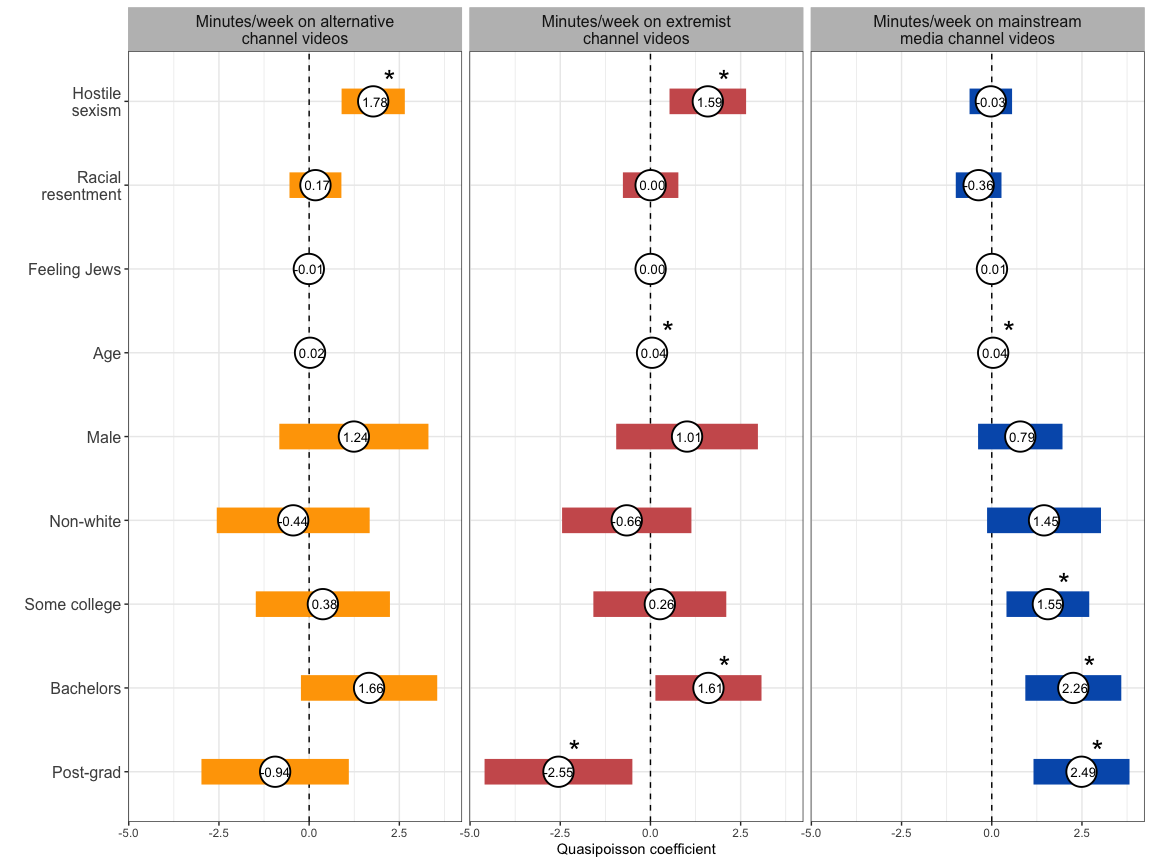
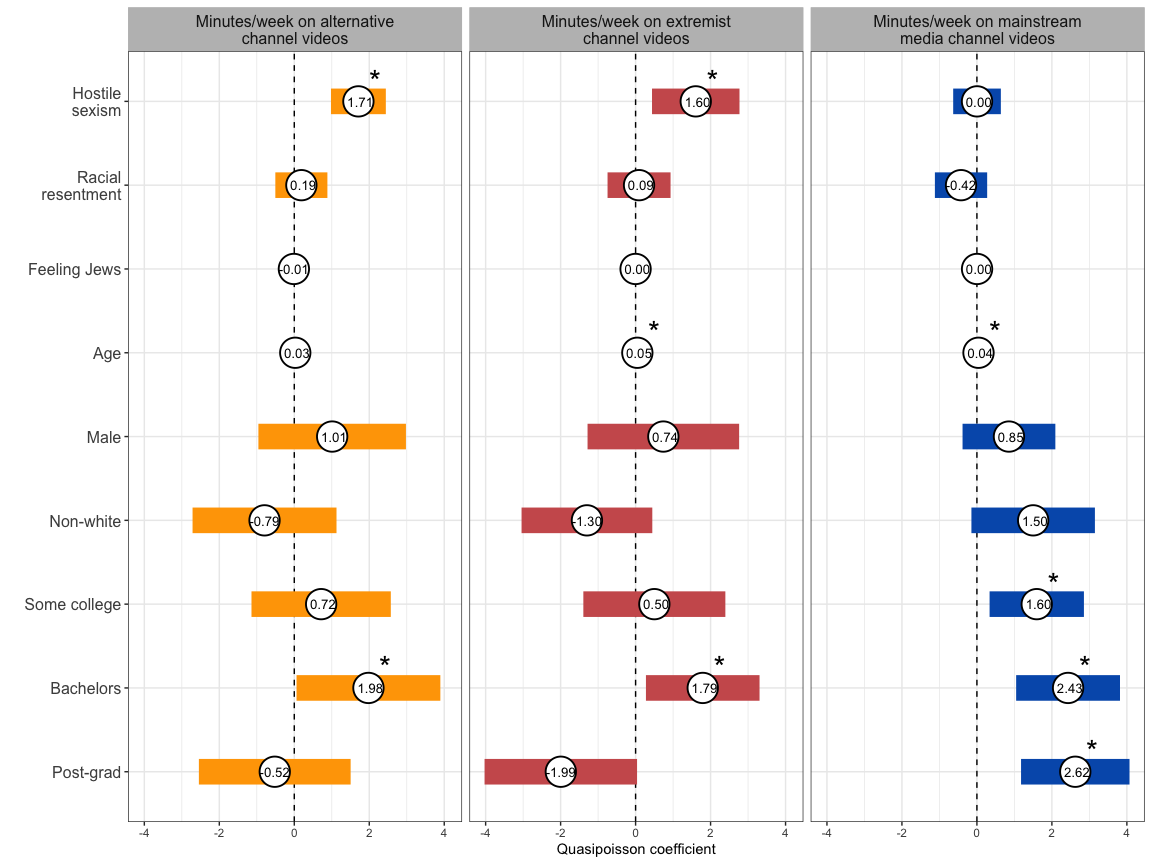
fix exposure models and add figure 6

diff --git a/main-text-figures.md b/main-text-figures.md
@@ -10,8 +10,14 @@ summarize_subscribe_table <-
   read_csv("data/summarize_subscribe_table.csv")
 
 # referrers data
-aggregated_referrers_by_channel <- 
-  read_csv("data/aggregated_referrers_by_channel.csv")
+youtube_referrers_data <- 
+  read_csv("data/youtube_referrers.csv")
+
+# list of referrers
+referrers_list <- read_rds('data/referrers_list.rds')
+external_referrers <- referrers_list$external_referrers
+internal_referrers_other <- referrers_list$internal_referrers_other
+internal_referrers <- referrers_list$internal_referrers
 
 # recommendations data
 recs_data <- 
@@ -521,10 +527,10 @@ topuser_plot(
 ## Figure 4. Predictors of watch time
 
 ``` r
-# DV is time elapsed per week on channel video
-f_time_alternative_all <- formula(minutes_activity_yt_video_time_elapsed_capped_total_alternative_all_week ~  rr_cts + jw_cts + fem_cts + age + gender + educ2 + race)
-f_time_extremist_all <- formula(minutes_activity_yt_video_time_elapsed_capped_total_extremist_all_week ~  rr_cts + jw_cts + fem_cts + age + gender + educ2 + race )
-f_time_mainstream_all <- formula(minutes_activity_yt_video_time_elapsed_capped_total_mainstream_all_week ~  rr_cts + jw_cts + fem_cts + age + gender + educ2 + race)
+# DV is time elapsed on channel video
+f_time_alternative_all <- formula(minutes_activity_yt_video_time_elapsed_capped_total_alternative_all ~  rr_cts + jw_cts + fem_cts + age + gender + educ2 + race)
+f_time_extremist_all <- formula(minutes_activity_yt_video_time_elapsed_capped_total_extremist_all ~  rr_cts + jw_cts + fem_cts + age + gender + educ2 + race )
+f_time_mainstream_all <- formula(minutes_activity_yt_video_time_elapsed_capped_total_mainstream_all ~  rr_cts + jw_cts + fem_cts + age + gender + educ2 + race)
 
 time_fs <- list(
   f_time_alternative_all,
@@ -572,11 +578,9 @@ robust_weighted_quasipoisson <- function(data = at_data,
   }
   return(results)
 }
-QP_time_fit <- list()
-for (i in 1:length(time_fs)) {
-  QP_time_fit[[i]] <-
-    robust_weighted_quasipoisson(formula = time_fs[[i]])
-}
+
+QP_time_fit <- map(1:length(time_fs), 
+                   ~robust_weighted_quasipoisson(formula = time_fs[[.x]]))
 
 names(QP_time_fit) <-
   c("time_alternative_full",
@@ -651,6 +655,7 @@ time_models %>%
 ## Figure 5. Hostile sexism as predictor of alternative and extremist channel viewing
 
 ``` r
+# predict() needs to take original model object without robust standard errors first, then separately estimate robust covariance matrix 
 QP_time_fit_noSE <- map(time_fs,
                         ~ robust_weighted_quasipoisson(formula = .x,
                                                        robust_output = FALSE))
@@ -757,9 +762,9 @@ predicted_data <-
 # set y-axis limits
 predicted_data <- data.table(predicted_data)
 predicted_data[channel_type == "alternative", y_min := 0]
-predicted_data[channel_type == "alternative", y_max := 200]
+predicted_data[channel_type == "alternative", y_max := 2000]
 predicted_data[channel_type == "extremist", y_min := 0]
-predicted_data[channel_type == "extremist", y_max := 50]
+predicted_data[channel_type == "extremist", y_max := 500]
 
 
 ggplot(predicted_data, aes(x = fem_cts, y = fit_response)) +
@@ -793,8 +798,8 @@ ggplot(predicted_data, aes(x = fem_cts, y = fit_response)) +
     values = c("#FFA500", "#CD5C5C"),
     name = "",
     labels = c(
-      "Alternative channel videos \ny-axis = [0, 200]",
-      "Extremist channel videos \ny-axis = [0, 50]"
+      "Alternative channel videos \ny-axis = [0, 2000]",
+      "Extremist channel videos \ny-axis = [0, 500]"
     )
   ) +
   labs(x = "Hostile sexism scale",
@@ -813,6 +818,139 @@ ggplot(predicted_data, aes(x = fem_cts, y = fit_response)) +
 ## Figure 6: Pages viewed immediately prior to YouTube videos by channel type
 
 ``` r
+on_platform_referrers_by_channel <- youtube_referrers_data %>%
+  group_by(channel_type) %>%
+  count(youtube_video_referrers_by_channel_type) %>%
+  filter(!is.na(youtube_video_referrers_by_channel_type)) %>%
+  mutate(
+    total = sum(n),
+    proportion = (n / sum(n)),
+    std_err = sqrt((proportion * (1 - proportion)) / total),
+    ci_lwr = 100 * (proportion - std_err * 1.96),
+    ci_upr = 100 * (proportion + std_err * 1.96),
+    percentage = 100 * proportion
+  ) %>%
+  ungroup() %>%
+  mutate(
+    channel_type_referrer = interaction(channel_type, youtube_video_referrers_by_channel_type),
+    youtube_video_referrers_by_channel_type = factor(
+      youtube_video_referrers_by_channel_type,
+      levels = c(
+        "alternative",
+        "extremist",
+        "mainstream",
+        'other',
+        'Non-video on-platform',
+        'Off-platform'
+      )
+    )
+  ) %>%
+  arrange(channel_type, youtube_video_referrers_by_channel_type) %>%
+  mutate(order_var = 1:nrow(.))
+
+
+on_platform_referrers_by_channel_plot <-
+  on_platform_referrers_by_channel %>%
+  mutate(
+    channel_type = case_when(
+      channel_type == "alternative" ~ "Alternative channel videos",
+      channel_type == "extremist" ~ "Extremist channel videos",
+      channel_type == "mainstream" ~ "Mainstream media videos",
+      channel_type == "other" ~ "Other channel videos"
+    )
+  ) %>%
+  ggplot(
+    data = .,
+    aes(
+      x = str_wrap_factor(reorder(channel_type, order_var), width = 17),
+      y = percentage,
+      fill = youtube_video_referrers_by_channel_type,
+      group = channel_type
+    )
+  ) +
+  geom_col(position = position_dodge2(padding = 0,
+                                      width = .95)) +
+  geom_linerange(aes(ymin = ci_lwr,
+                     ymax = ci_upr),
+                 size = .7,
+                 position = position_dodge2(width = .90)) +
+  labs(x = "", y = "Estimated percentage from preceding link") +
+  scale_fill_manual(
+    values = c(
+      'alternative' = "#FFA500",
+      'extremist'  = "#CD5C5C",
+      'mainstream'  =  "#015CB9",
+      'other' = "#E3E6E6",
+      'Non-video on-platform'  =  "#7f7f7f",
+      'Off-platform'  =  "#2D2E32"
+    ),
+    breaks  = c(
+      'alternative',
+      'other',
+      'extremist',
+      'Non-video on-platform',
+      'mainstream',
+      'Off-platform'
+    ),
+    labels = c(
+      'alternative' = "Alternative\nchannels",
+      'extremist' = "Extremist\nchannels",
+      'mainstream'  =  "Mainstream\nmedia",
+      'other' = "Other\nchannels",
+      'Non-video on-platform'  = "Non-video \non-platform",
+      'Off-platform'  = "Off-platform"
+    ),
+    name = "Type of preceding link:"
+  ) +
+  scale_y_continuous(
+    limits = c(0, 60),
+    labels = paste0(seq(0, 60, 20), "%"),
+    breaks = seq(0, 60, 20)
+  ) +
+  ggthemes::theme_gdocs() +
+  theme(
+    legend.position = 'bottom',
+    legend.direction = 'horizontal',
+    panel.grid.major.y = element_line(color = "grey95"),
+    panel.grid.major.x = element_blank(),
+    axis.text.x = element_text(size = 12),
+    plot.background = element_rect(color = "white")
+  )
+
+on_platform_referrers_by_channel_plot
+```
+
+<img src="main-text-figures_files/figure-gfm/unnamed-chunk-4-1.png" style="display: block; margin: auto;" />
+
+## Figure 7: Relative frequency of referrals to YouTube videos by channel and referrer type
+
+``` r
+aggregated_referrers_by_channel <- youtube_referrers_data %>%
+  group_by(channel_type) %>%
+  count(all_referrers_grouped) %>%
+  filter(!is.na(all_referrers_grouped)) %>%
+  mutate(
+    total = sum(n),
+    proportion = (n / sum(n)),
+    std_err = sqrt((proportion * (1 - proportion)) / total),
+    ci_lwr = 100 * (proportion - std_err * 1.96),
+    ci_upr = 100 * (proportion + std_err * 1.96),
+    percentage = 100 * proportion,
+    on_off_platform = case_when(
+      all_referrers_grouped %in% c(str_replace(names(external_referrers), "_", " "), "other off-platform") ~ "off-platform",
+      all_referrers_grouped %in% c(internal_referrers, "other on-platform") ~ "on-platform"
+    )
+  ) %>%
+  ungroup() %>%
+  mutate(channel_type_referrer = interaction(channel_type, all_referrers_grouped)) %>%
+  arrange(channel_type, on_off_platform) %>%
+  mutate(order_var = 1:nrow(.)) %>%
+  arrange(on_off_platform, percentage) %>%
+  mutate(
+    all_referrers_grouped = factor(all_referrers_grouped, levels = unique(.$all_referrers_grouped)),
+    all_referrers_grouped = str_replace(all_referrers_grouped, "youtube", "YouTube")
+  )
+
 # on platform panel
 referrers_channel_type_videos_on_platform <-
   aggregated_referrers_by_channel %>%
@@ -956,7 +1094,7 @@ plot_grid(
 )
 ```
 
-<img src="main-text-figures_files/figure-gfm/unnamed-chunk-4-1.png" style="display: block; margin: auto;" />
+<img src="main-text-figures_files/figure-gfm/unnamed-chunk-5-1.png" style="display: block; margin: auto;" />
 
 ## Figure 8: Recommendation frequency by type of channel being watched
 
@@ -1361,6 +1499,7 @@ sub_data <- at_data %>%
          ends_with("unclassified"),
          -contains("adl"),
          caseid, weight_cmd) %>%
+  # make names consistent
   rename(activity_yt_n_video_total_subscribed = activity_yt_n_video_subscribed,
          activity_yt_n_video_total_notsubscribed = activity_yt_n_video_notsubscribed,
          activity_yt_n_video_total_unclassified = activity_yt_n_video_unclassified,
@@ -1545,4 +1684,4 @@ combined %>%
          color = "none")
 ```
 
-<img src="main-text-figures_files/figure-gfm/unnamed-chunk-5-1.png" style="display: block; margin: auto;" />
+<img src="main-text-figures_files/figure-gfm/unnamed-chunk-6-1.png" style="display: block; margin: auto;" />
